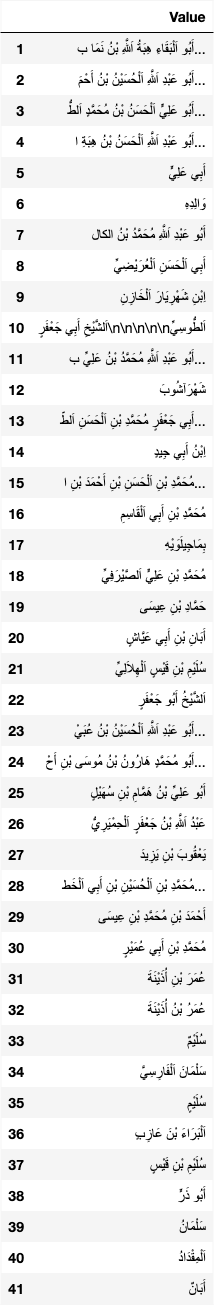
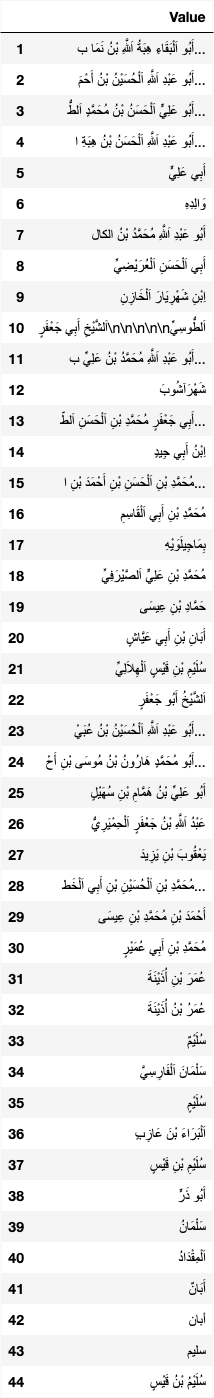
updated plot_graph and README.md

diff --git a/plot_graph.py b/plot_graph.py
@@ -7,18 +7,35 @@ import matplotlib.pyplot as plt
 import dataframe_image as dfi
 
 
+'''
+Running this script with the file_name (input) and optional num_lines_to_read
+commandline arguments, generates a table png image file of narrator IDs and a graph
+visualizing the narration chains
+Example:
+python3 plot_graph.py Suleyman 30
+generates inputs the 30 first lines of Suleyman.txt file from the outputs directory and generates
+the table and graph png files in the output directory with appropriate file names
+'''
+
+
+
 #! /usr/local/bin/python  -*- coding: UTF-8 -*-
 
-file_path = sys.argv[1]
-num_lines_to_read = int(sys.argv[2])
-source_name = file_path[file_path.find('/')+1:].strip('.txt')
+file_name = sys.argv[1]
+file_path = "outputs/" + file_name + ".txt"
+num_lines_to_read = None
+if len(sys.argv) > 2:
+	num_lines_to_read = int(sys.argv[2])
+source_name = file_name
+#source_name = file_path[file_path.find('/')+1:].strip('.txt')
 graph = nx.Graph()
 
 
 
 def draw_circular(graph, with_labels = True):
- nx.draw_circular(graph,with_labels = with_labels)
- plt.savefig(source_name+"_graph.png")
+	nx.draw_circular(graph,with_labels = with_labels)
+	savefig_input = "outputs/"+source_name+"_graph.png"
+	plt.savefig(savefig_input)
 
 
 # def create_graph_with_numbered_nodes(string_list):
@@ -39,19 +56,19 @@ def draw_circular(graph, with_labels = True):
 
 # Verify the nodes and their attributes
 def create_adjacent_edges(nodes):
-  """
+	graph.add_nodes_from(nodes)
+	for i in range(len(nodes) - 1):
+		graph.add_edge(nodes[i], nodes[i + 1])
+"""
   Creates a NetworkX graph with edges connecting adjacent nodes in a list.
 
   Args:
-    nodes: A list of nodes.
+	nodes: A list of nodes.
 
   Returns:
-    A NetworkX graph with edges between adjacent nodes.
-  """
+	A NetworkX graph with edges between adjacent nodes.
+"""
 
-  graph.add_nodes_from(nodes)
-  for i in range(len(nodes) - 1):
-    graph.add_edge(nodes[i], nodes[i + 1])
 
 
 
@@ -59,43 +76,37 @@ def create_adjacent_edges(nodes):
 
 
 def string_to_list(input_string):
-    cleaned_string = re.sub(r'[\[\]"\']', '', input_string)
-    result_list = [item.strip() for item in cleaned_string.split(',')]
-    return result_list
+	cleaned_string = re.sub(r'[\[\]"\']', '', input_string)
+	result_list = [item.strip() for item in cleaned_string.split(',')]
+	return result_list
 
-def read_first_n_lines_csv(file_path, n):
-    """
-    Reads the first n lines of a CSV file using pandas.
+def read_first_n_lines_csv(file_path, n=None):
+	"""
+	Reads the first n lines of a CSV file using pandas.
 
-    Args:
-        file_path (str): The path to the CSV file.
-        n (int): The number of lines to read.
+	Args:
+		file_path (str): The path to the CSV file.
+		n (int): The number of lines to read.
 
-    Returns:
-        pandas.DataFrame: A DataFrame containing the first n lines of the CSV file, 
-                          or None if an error occurs.
-    """
-    try:
-        df = pd.read_csv(file_path, nrows=n, encoding='utf-8')
-        return df
-    except FileNotFoundError:
-        print(f"Error: File not found at path: {file_path}")
-        return None
-    except pd.errors.EmptyDataError:
-         print(f"Error: The CSV file is empty: {file_path}")
-         return None
-    except Exception as e:
-        print(f"An error occurred: {e}")
-        return None
+	Returns:
+		pandas.DataFrame: A DataFrame containing the first n lines of the CSV file, 
+						  or None if an error occurs.
+	"""
 
-
-
+	try:
+		df = pd.read_csv(file_path, nrows=n, encoding='utf-8')
+		return df
+	except FileNotFoundError:
+		print(f"Error: File not found at path: {file_path}")
+		return None
+	except pd.errors.EmptyDataError:
+		 print(f"Error: The CSV file is empty: {file_path}")
+		 return None
+	except Exception as e:
+		print(f"An error occurred: {e}")
+		return None
 
 
-
-
-# Example usage:
-file_path = file_path  # Replace with the actual path to your CSV file
 num_lines = num_lines_to_read
 df_head = read_first_n_lines_csv(file_path, num_lines)
 print(df_head)
@@ -110,23 +121,27 @@ print(type(sanad[0]))
 key_value = {}
 value_key = {}
 key = 0
-for line in sanad:
- if line != "No SANAD":
-  list_version = string_to_list(line)
-  person_indices = []
-  for person in list_version:
-   if person not in value_key:
-    key+=1
-    key_value[key] = person
-    value_key[person] = key
-    person_indices.append(key)
-   else:
-    person_indices.append(value_key[person])
-  print(list_version)
-  create_adjacent_edges(person_indices)
 
+for line in sanad:
+	if line != "No SANAD":
+		list_version = string_to_list(line)
+		person_indices = []
+	for person in list_version:
+		if person not in value_key:
+			key+=1
+			key_value[key] = person
+			value_key[person] = key
+			person_indices.append(key)
+		else:
+			person_indices.append(value_key[person])
+		print(list_version)
+		create_adjacent_edges(person_indices)
+
+
+# pd.set_option('display.max_rows', -1)
 df_dic = pd.DataFrame.from_dict(key_value, orient='index', columns=['Value'])
-dfi.export(df_dic, source_name+'_narrator_IDs.png')
+
+dfi.export(df_dic, "outputs/"+source_name+'_narrator_IDs.png', max_rows= len(df_dic))
 plt.show()
 draw_circular(graph)
 

diff --git a/README.md b/README.md
@@ -23,6 +23,15 @@ python3 inoor_webdriver.py 2 10 output 1527
 generates output.txt in the outputs directory with 20 chains of narration for book 1527 Kitab Suleym
 in a python list format with inoor hadith IDs for each list
 
+3.
+Running plot_graph.py with the file_name (input) and optional num_lines_to_read
+commandline arguments, generates a table png image file of narrator IDs and a graph
+visualizing the narration chains
+Example:
+python3 plot_graph.py Suleyman 30
+generates inputs the 30 first lines of Suleyman.txt file from the outputs directory and generates
+the table and graph png files in the output directory with appropriate file names
+
 
 
 
